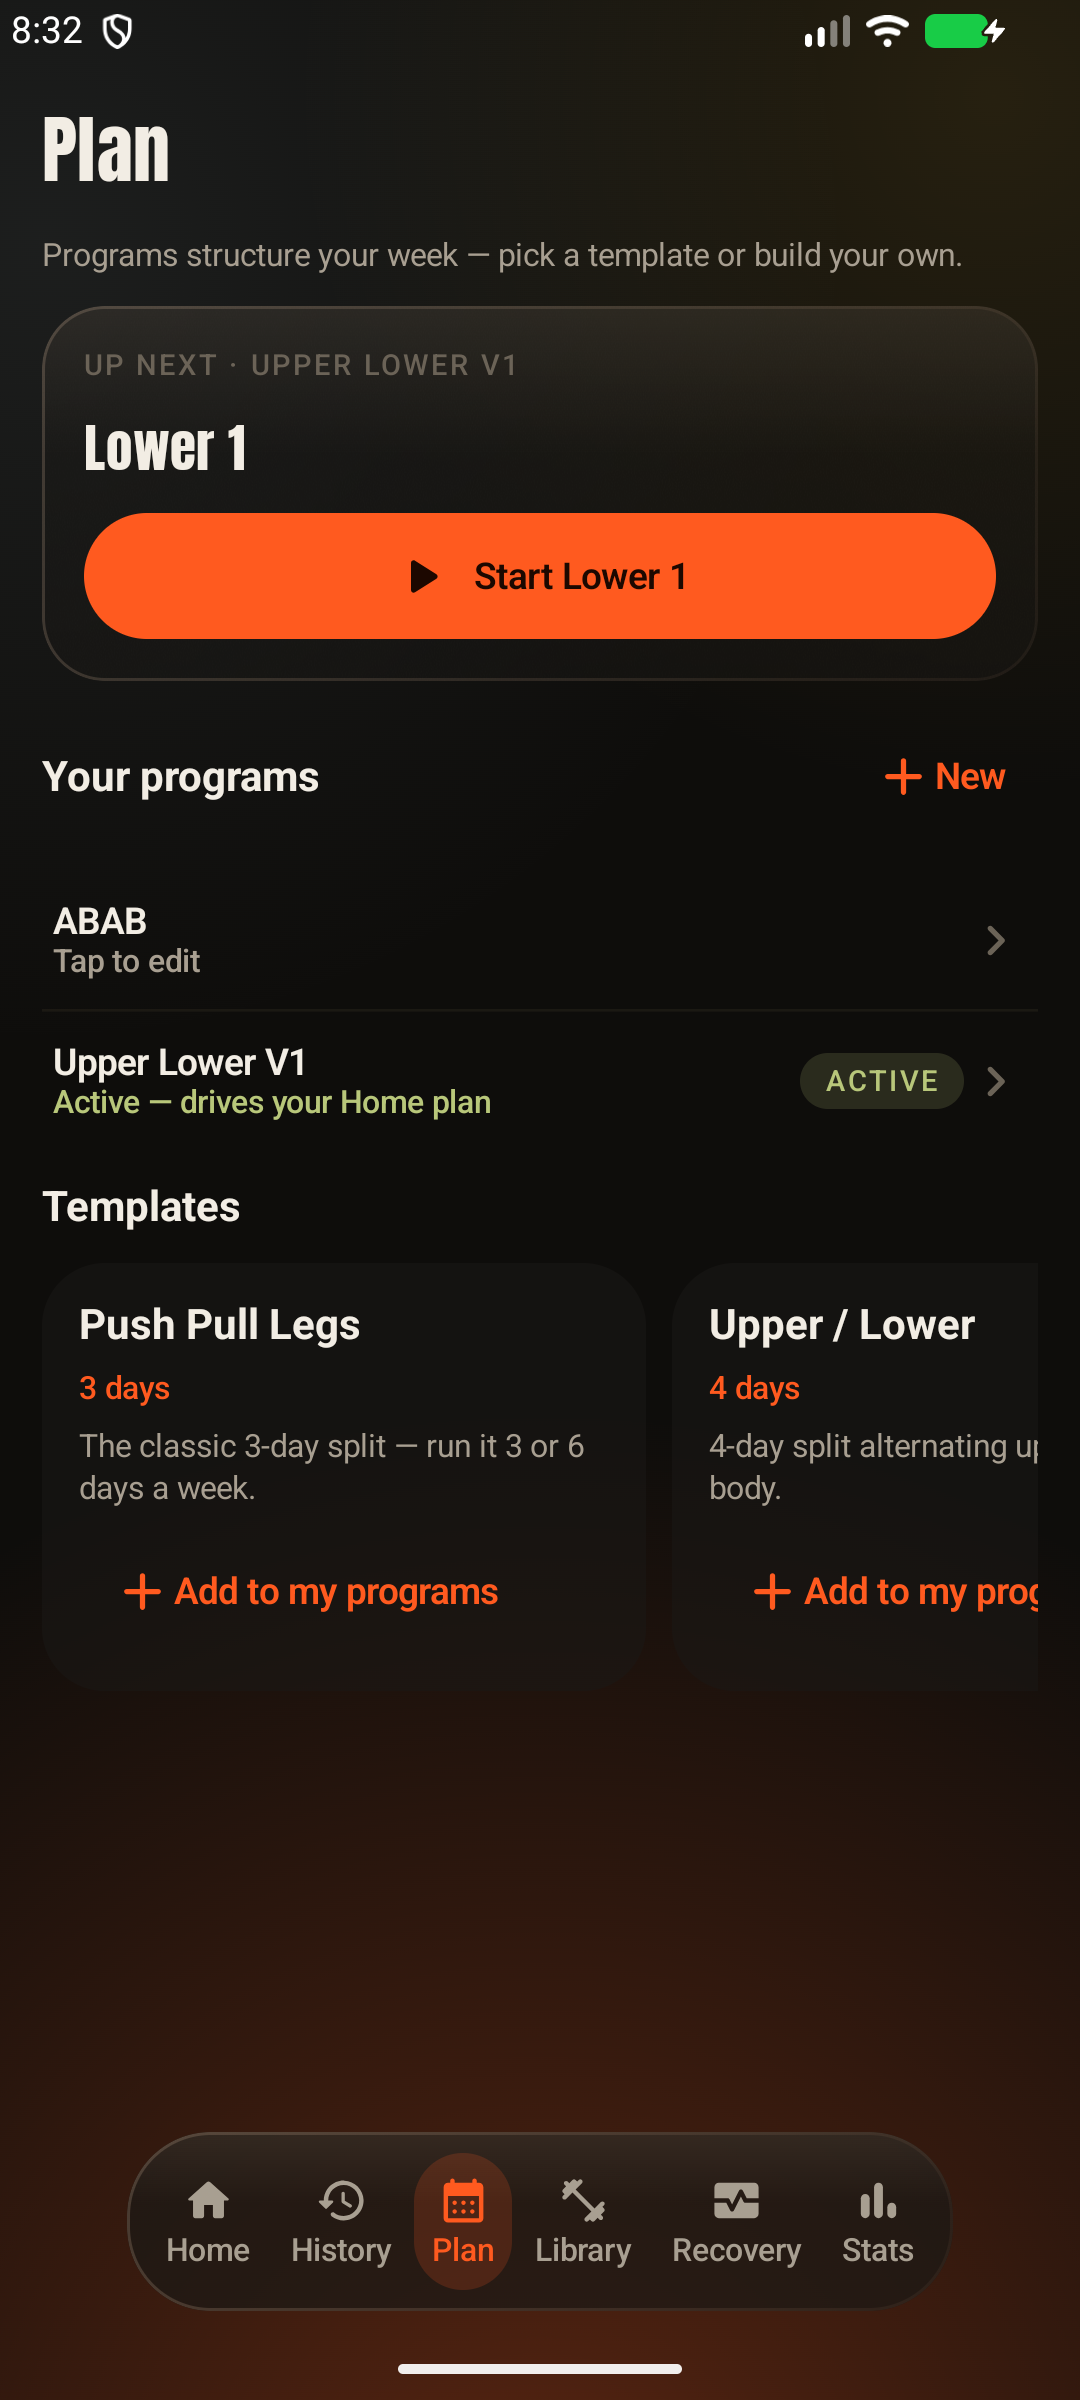
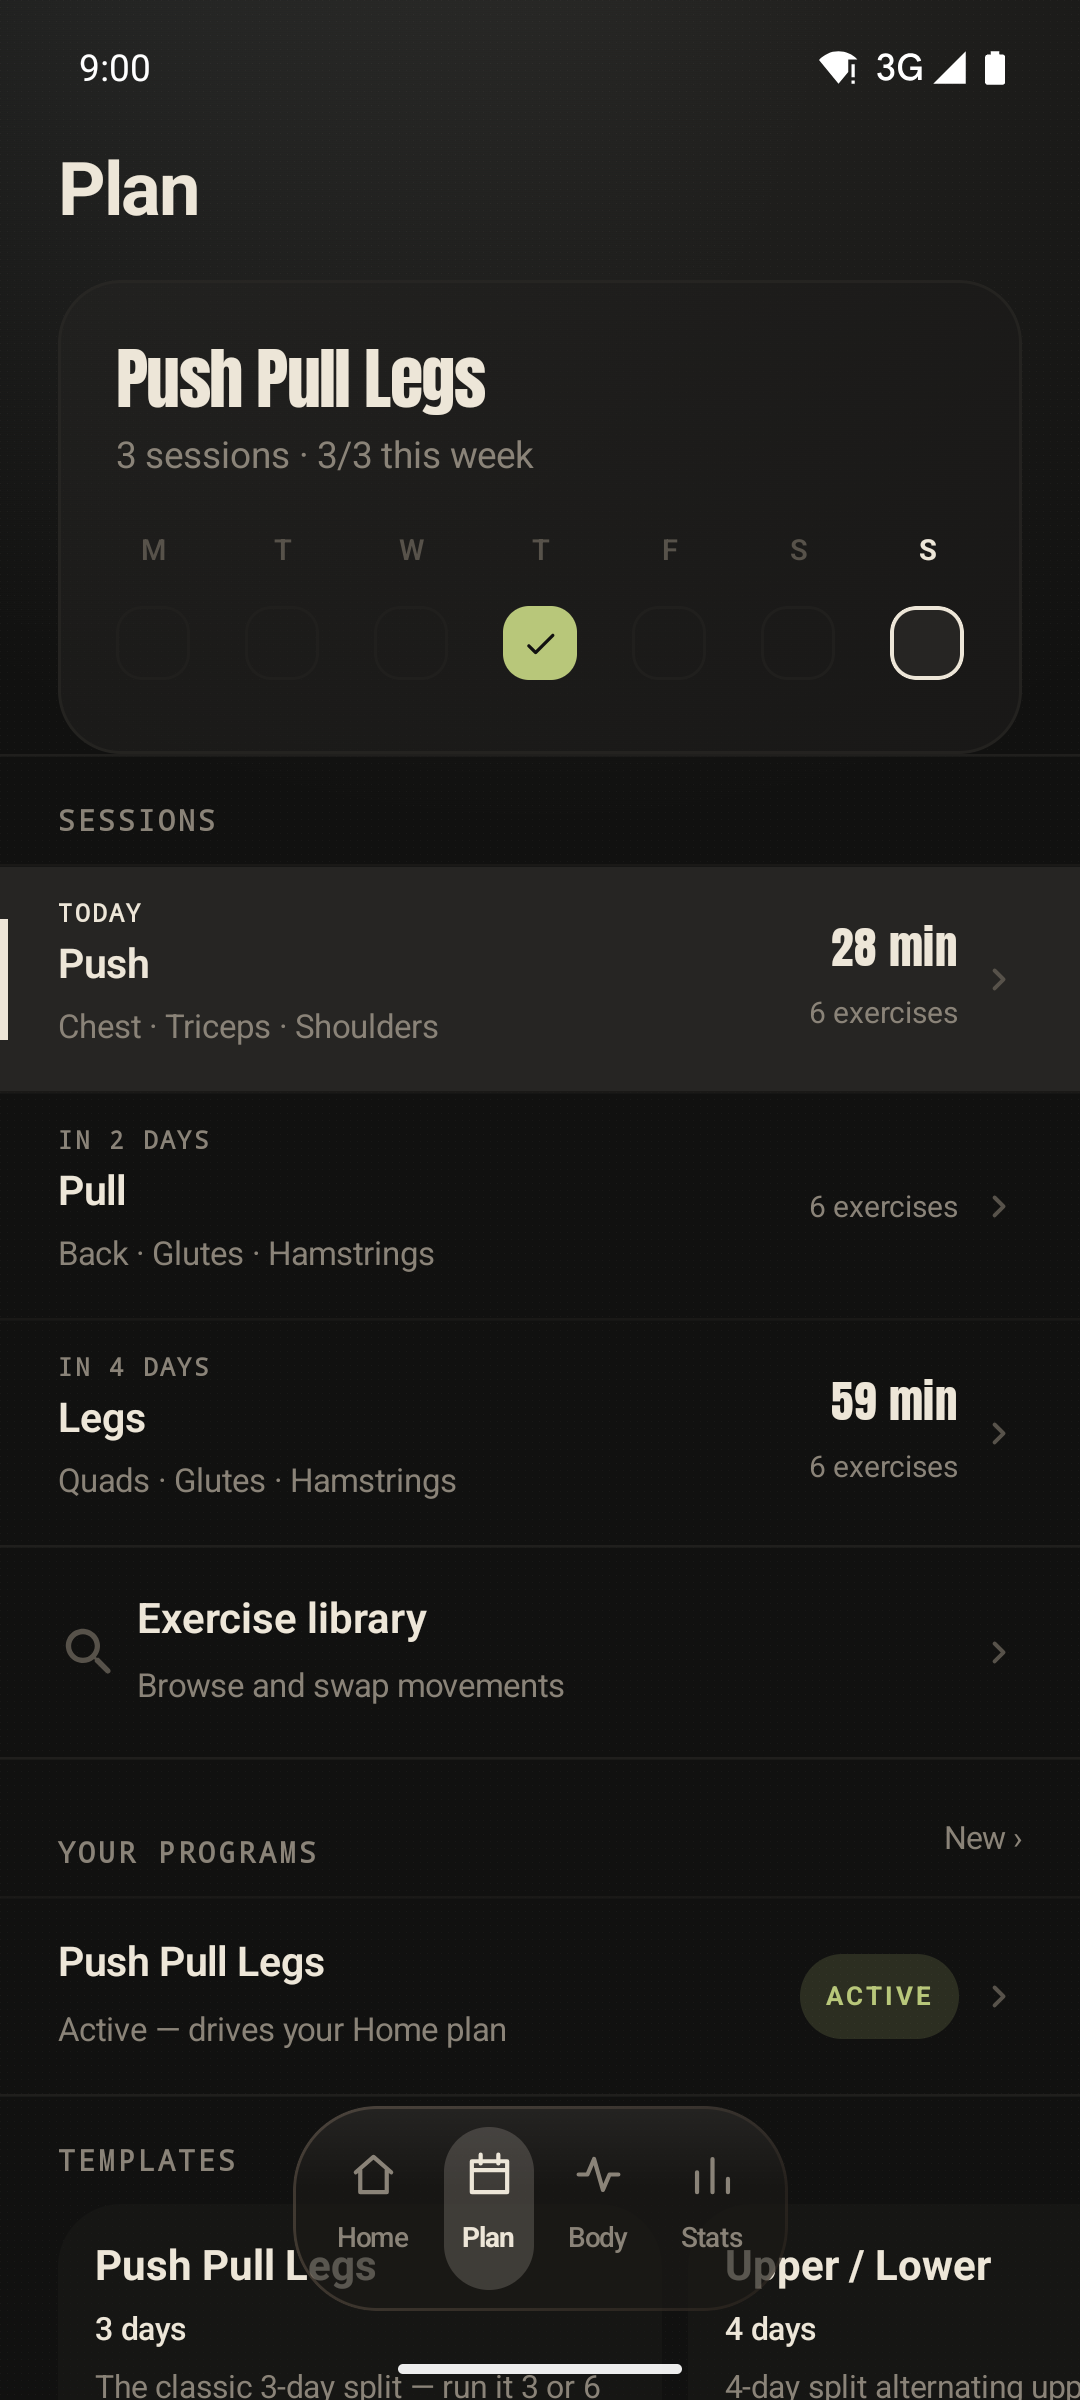
Refresh README screenshots for the Chalk & Iron redesign, add motion GIFs
Prior screenshots predated the Home Slate redesign, Strike Mode, and the
celebration-ladder finish screen; README text still described the old
Molten Forge identity and a wrong APK install path. Recaptured all shots
live off the repforge emulator, added a live-motion tour + session-flow GIF.

diff --git a/README.md b/README.md
@@ -2,7 +2,7 @@
 
 **A personal, offline-first gym tracker — every Progression Pro feature, no paywall.**
 
-Forged is a precision workout logging app for Android with a molten-forge design language, local analytics, and a planned cloud + AI coaching layer. Built for one lifter, free forever.
+Forged is a precision workout logging app for Android with a chalk-and-iron design language, local analytics, and a planned cloud + AI coaching layer. Built for one lifter, free forever.
 
 <p align="center">
   <a href="https://github.com/AyoubAZIAMIMER/Gym-Tracking-Android-App/stargazers">
@@ -72,11 +72,14 @@ Forged is a precision workout logging app for Android with a molten-forge design
 
 | Area | Highlights |
 |------|------------|
-| **Workout session** | Pre-filled sets, drag-adjust weight/reps, set tags, supersets, rest timer bubble + notification, plate calculator, live PR detection |
-| **Library** | 100+ exercises, muscle-target figures, demo photos, custom exercise CRUD, Progression import |
+| **Onboarding** | First-run profile + pick-your-split picker with per-muscle load bars and honest time estimates |
+| **Home (the Slate)** | Live session card while training, today's plan, week strip, next up, recent — state-first, not a dashboard |
+| **Workout session** | Full-screen Strike Mode, scrub-to-adjust weight/reps, set tags, supersets, in-app rest timer + live notification with "Log set", plate calculator, live PR detection with an on-screen flash |
+| **Finish** | Celebration ladder (closing ring + checkmark, no confetti), rolled-up stats, PR ledger, volume-vs-last delta |
+| **Library** | 108 exercises, muscle-target figures, demo photos, custom exercise CRUD, Progression import |
 | **History** | Calendar heatmap, workout log, PR stars, repeat workout |
 | **Stats** | e1RM trends, weekly volume, plateau detection, PR timeline, training calendar |
-| **Recovery** | Per-muscle freshness map with body figures |
+| **Body** | Per-muscle readiness map (COOLED → GLOWING) with anatomical front/back figures |
 | **Programs** | PPL / Upper-Lower / Bro Split templates, multi-day program editor |
 | **Data** | Progression `.pgnbkp` import, JSON + CSV export, profile setup |
 
@@ -84,14 +87,24 @@ Forged is a precision workout logging app for Android with a molten-forge design
 
 ---
 
+## In motion
+
+<p align="center">
+  <img src="screenshots/tour.gif" width="220" alt="Tour of Home, Plan, Body and Stats" />
+  <img src="screenshots/session-flow.gif" width="220" alt="Starting a session, logging a set, live PR flash" />
+</p>
+
 ## Screenshots
 
 <p align="center">
-  <img src="screenshots/home.png" width="200" alt="Home screen" />
-  <img src="screenshots/history.png" width="200" alt="History screen" />
+  <img src="screenshots/home.png" width="200" alt="Home — the Slate" />
+  <img src="screenshots/session.png" width="200" alt="Workout session with rest timer" />
+  <img src="screenshots/session_complete.png" width="200" alt="Finish screen — celebration ladder" />
   <img src="screenshots/plan.png" width="200" alt="Plan screen" />
   <img src="screenshots/library.png" width="200" alt="Exercise library" />
-  <img src="screenshots/recovery.png" width="200" alt="Recovery muscle map" />
+  <img src="screenshots/exercise.png" width="200" alt="Exercise detail with demo photo and muscle figure" />
+  <img src="screenshots/history.png" width="200" alt="History screen" />
+  <img src="screenshots/body.png" width="200" alt="Body readiness map" />
   <img src="screenshots/stats.png" width="200" alt="Stats charts" />
 </p>
 
@@ -131,7 +144,7 @@ Gym-Tracking-Android-App/
 ├── backend/                 # FastAPI scaffold (Phase 3)
 ├── design/                  # Motion design system (MOTION.md) + UI references
 ├── exercises_db/            # Exercise catalog assets
-├── screenshots/             # App screenshots used in this README
+├── screenshots/             # App screenshots + GIFs used in this README
 ├── licenses/                # Third-party license texts (font, exercise data)
 ├── docs/                    # Project history / original build prompt
 ├── docker-compose.yml       # Postgres + API (Phase 3)
@@ -157,10 +170,10 @@ cd android
 ./gradlew assembleDebug
 ```
 
-Install the APK on a device or emulator:
+Install the APK on a device or emulator (the build output lands under the Gradle project cache, not `android/app/build`):
 
 ```bash
-adb install app/build/outputs/apk/debug/app-debug.apk
+adb install ~/.gradle-build/forged/GymTracker/app/outputs/apk/debug/app-debug.apk
 ```
 
 > After large dependency bumps, run `./gradlew clean` first — incremental dexing can mix Compose versions and crash at launch.
@@ -212,7 +225,7 @@ flowchart LR
 
 ## Design
 
-Forged uses the **Molten Forge** identity — ember orange on charcoal iron, Anton display type, liquid-glass surfaces (Haze blur), and a motion system built around steel-like physics (see `design/MOTION.md`).
+Forged uses the **Chalk & Iron** identity — chalk-white chrome (numerals, primary actions, the F-cut wordmark) on deep charcoal, with warm color spent strictly as data: olive for completed work, blue for a fresh muscle, red for spent/PR badges, gold for a personal record. Home and the tab screens are flat, hairline-ruled sections rather than glass cards; Anton carries the big numerals and the wordmark. A motion system built around steel-like physics still governs every transition (see `design/MOTION.md`), and the finish screen closes each session with a drawn checkmark ring instead of confetti.
 
 ---
 
@@ -223,6 +236,6 @@ This is a personal project built for a single owner. Issues and ideas are welcom
 ---
 
 <p align="center">
-  <strong>The forge is hot.</strong><br/>
+  <strong>Chalk on. Iron waits.</strong><br/>
   <sub>Package: <code>com.gymtracker</code> · Display name: <strong>Forged</strong> · v0.1.0</sub>
 </p>
